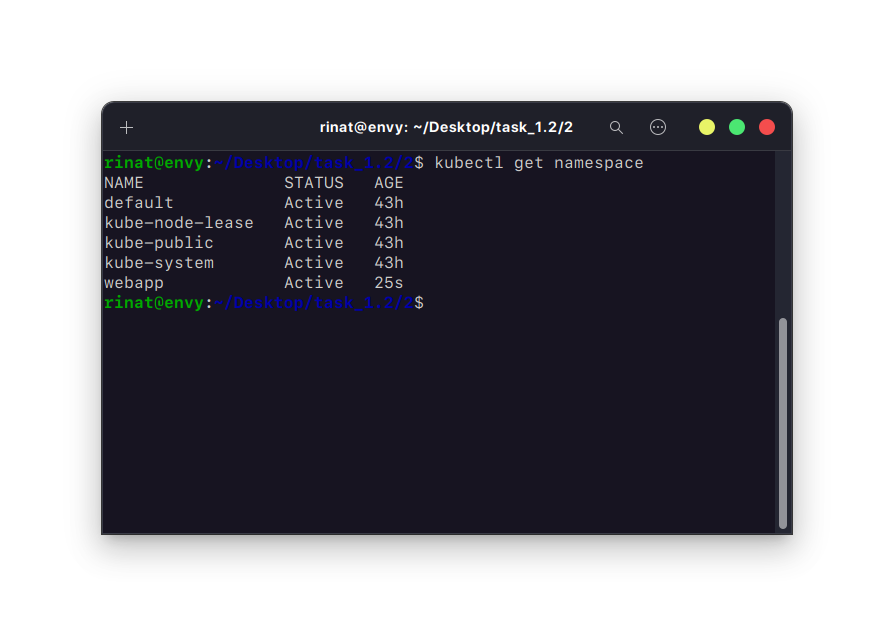
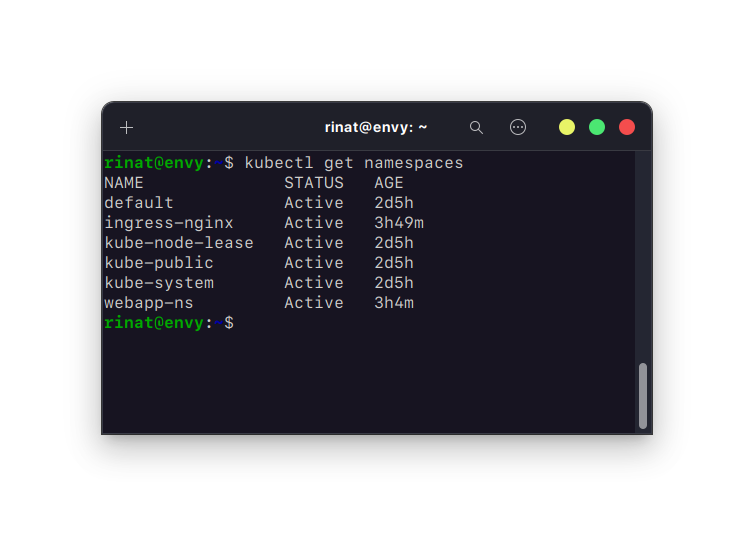
another fix

Changed region(s): [[0.0915, 0.1493, 0.9151, 0.8657]]

diff --git a/README.md b/README.md
@@ -12,7 +12,7 @@
 > apiVersion: v1
 > kind: Namespace
 > metadata:
->   name: webapp
+>   name: webapp-ns
 > ```
 
 ![namespace-list](images/namespace-list.png)
